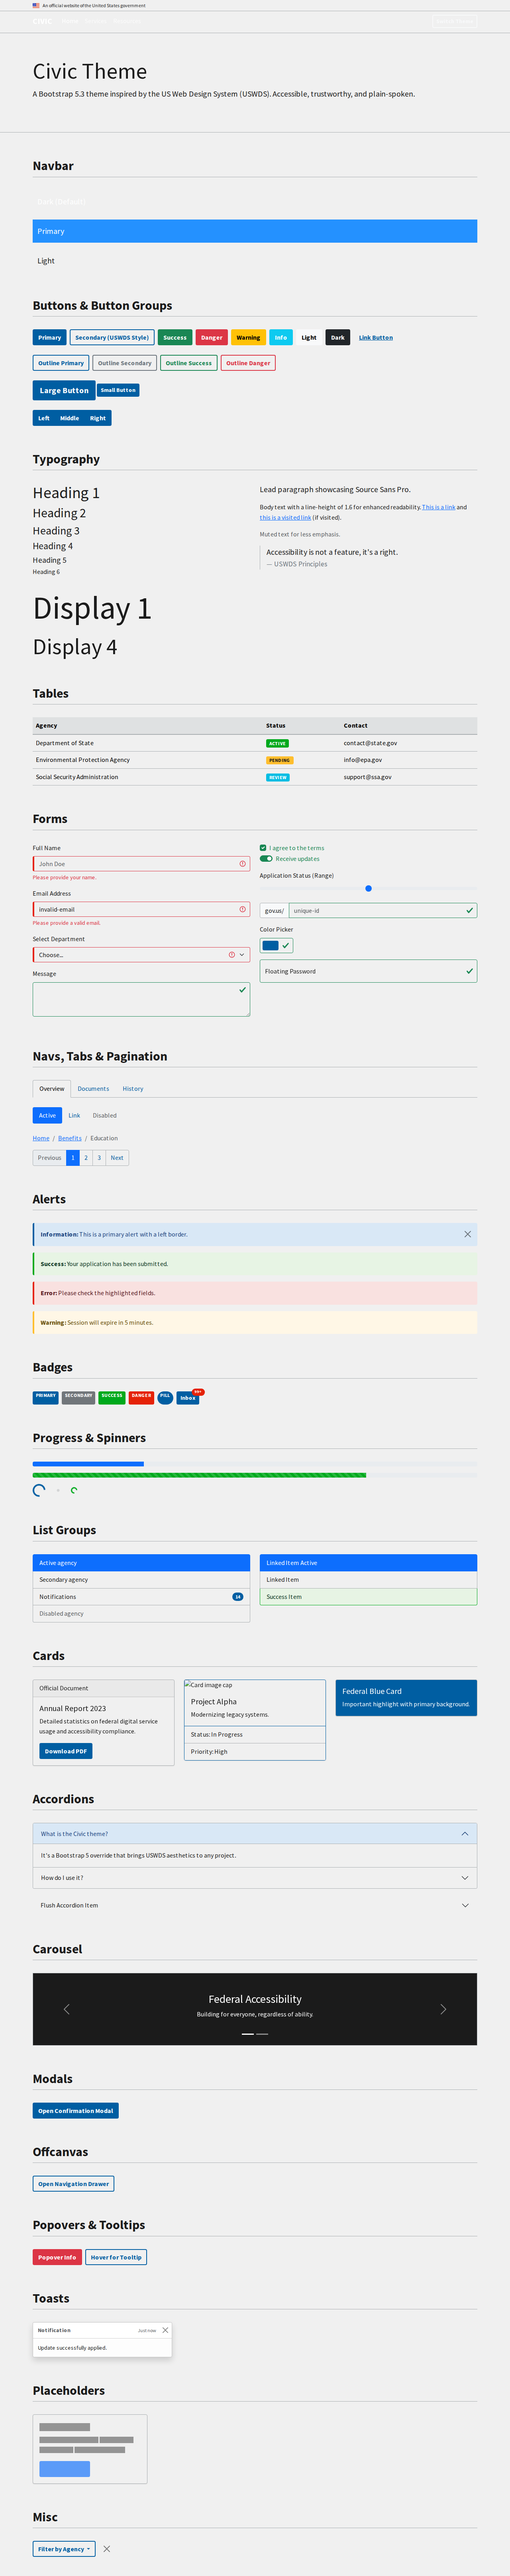
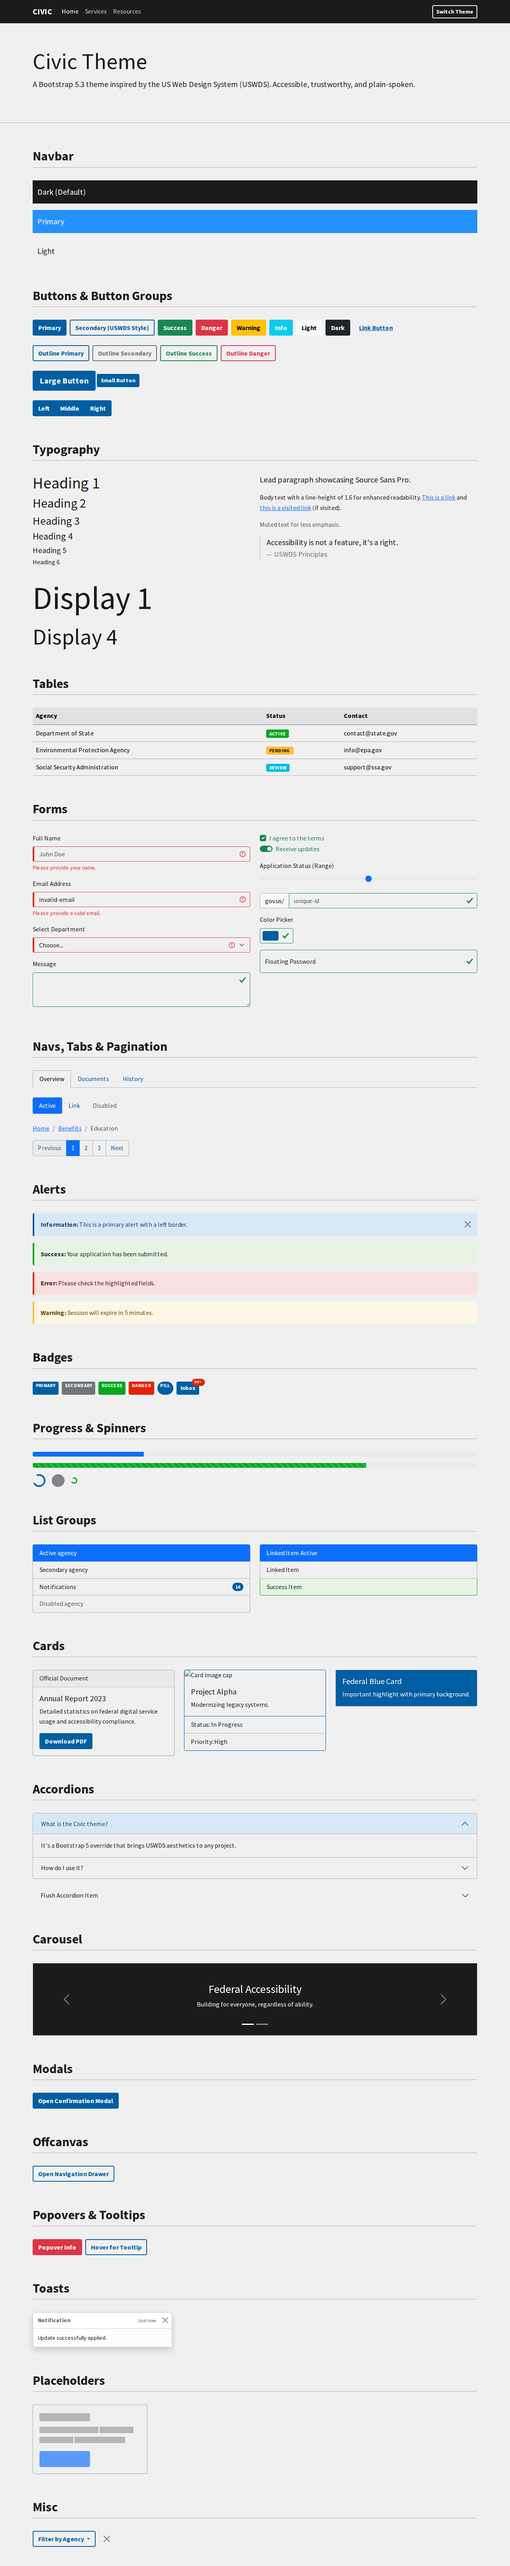
Fix Civic theme preview, navbar readability, and update README/Gallery
- Removed misleading USWDS banner from Civic theme index.html.
- Fixed Civic navbar readability by explicitly applying background-color.
- Corrected installation examples in README (link tags instead of script tags, removed /dist path).
- Added Vanguard, Carbon, and Civic themes to the README Available Themes table.
- Added Carbon theme to the central gallery in docs/index.html.
- Regenerated Civic theme screenshot.

diff --git a/themes/civic/index.html b/themes/civic/index.html
@@ -13,25 +13,15 @@
     <link rel="preconnect" href="https://fonts.gstatic.com" crossorigin>
     <link href="https://fonts.googleapis.com/css2?family=Source+Sans+Pro:wght@400;700&display=swap" rel="stylesheet">
     <style>
-        body { padding-top: 80px; }
+        body { padding-top: 56px; }
         .section-title { margin-top: 4rem; margin-bottom: 2rem; border-bottom: 1px solid var(--bs-border-color); padding-bottom: 0.5rem; font-weight: 700; }
         .hero { padding: 4rem 0; background-color: var(--bs-secondary-bg-subtle); border-bottom: 1px solid var(--bs-border-color); }
     </style>
 </head>
 <body>
 
-    <!-- USWDS Banner -->
-    <div class="usa-banner fixed-top w-100">
-        <div class="container">
-            <div class="d-flex align-items-center">
-                <img src="https://designsystem.digital.gov/assets/img/us_flag_small.png" alt="US Flag" class="me-2" style="height: 12px;">
-                <span>An official website of the United States government</span>
-            </div>
-        </div>
-    </div>
-
     <!-- 1. Navbar -->
-    <nav class="navbar navbar-expand-lg fixed-top border-bottom mt-4">
+    <nav class="navbar navbar-expand-lg fixed-top border-bottom">
         <div class="container">
             <a class="navbar-brand" href="#">
                 <strong>CIVIC</strong>

diff --git a/docs/index.html b/docs/index.html
@@ -94,6 +94,18 @@
                 </div>
             </div>
 
+            <!-- Carbon Theme -->
+            <div class="col-md-6 col-lg-4">
+                <div class="card theme-card">
+                    <img src="../themes/carbon/screenshot.png" class="card-img-top theme-screenshot" alt="Carbon Theme Screenshot">
+                    <div class="card-body d-flex flex-column">
+                        <h5 class="card-title fw-bold">CARBON</h5>
+                        <p class="card-text flex-grow-1">Clinical, precise, enterprise-ready. Inspired by IBM's Carbon Design System, optimized for data-heavy applications.</p>
+                        <a href="https://html-preview.github.io/?url=https://github.com/lesichkovm/bootlegance/blob/main/themes/carbon/index.html" class="btn btn-preview mt-3">Live Preview</a>
+                    </div>
+                </div>
+            </div>
+
             <!-- More themes can be added here -->
         </div>
 

diff --git a/themes/civic/theme.css b/themes/civic/theme.css
@@ -162,6 +162,7 @@ div.is-invalid {
 
 /* Navbar */
 .navbar {
+  background-color: var(--bs-navbar-bg);
   --bs-navbar-bg: var(--bs-dark);
   --bs-navbar-color: rgba(255, 255, 255, 0.75);
   --bs-navbar-hover-color: var(--usa-white);

diff --git a/README.md b/README.md
@@ -24,11 +24,11 @@ Bootlegance is a collection of carefully crafted Bootstrap 5 themes designed to 
 
 ```html
 <link href="https://cdn.jsdelivr.net/npm/bootstrap@5.3.0/dist/css/bootstrap.min.css" rel="stylesheet">
-<!-- Load latest WebJS from CDN -->
-<script src="https://cdn.jsdelivr.net/gh/lesichkovm/bootlegance@latest/dist/themes/{theme-name}/theme.css"></script>
+<!-- Load latest theme CSS from CDN -->
+<link href="https://cdn.jsdelivr.net/gh/lesichkovm/bootlegance@latest/themes/{theme-name}/theme.css" rel="stylesheet">
 
-<!-- Load specific version of WebJS from CDN -->
-<script src="https://cdn.jsdelivr.net/gh/lesichkovm/bootlegance@v2.9.0/dist/themes/{theme-name}/theme.css"></script>
+<!-- Load specific version of theme CSS from CDN -->
+<link href="https://cdn.jsdelivr.net/gh/lesichkovm/bootlegance@v2.9.0/themes/{theme-name}/theme.css" rel="stylesheet">
 ```
 
 3. That's it! Your Bootstrap components now have the Bootlegance theme applied.
@@ -54,6 +54,9 @@ document.documentElement.setAttribute('data-bs-theme', 'dark');
 | Theme | Description | Preview | Best For |
 |---|---|---|---|
 | **Brutalski** | Bold, raw, geometric brutalism | [Preview](https://html-preview.github.io/?url=https://github.com/lesichkovm/bootlegance/blob/main/themes/brutalski/index.html) | Developers, tech-forward projects, design portfolios |
+| **Vanguard** | Faithfully recreated Bootstrap 3 aesthetic | [Preview](https://html-preview.github.io/?url=https://github.com/lesichkovm/bootlegance/blob/main/themes/vanguard/index.html) | Legacy projects, nostalgia, familiarity |
+| **Carbon** | Clinical, precise, enterprise-ready | [Preview](https://html-preview.github.io/?url=https://github.com/lesichkovm/bootlegance/blob/main/themes/carbon/index.html) | Enterprise apps, dashboards, developer tools |
+| **Civic** | Inspired by the U.S. Web Design System (USWDS) | [Preview](https://html-preview.github.io/?url=https://github.com/lesichkovm/bootlegance/blob/main/themes/civic/index.html) | Government, digital services, accessibility-first |
 | **Midnight** | Dark, sophisticated, professional | Corporate apps, SaaS, modern tech |
 | **Sunrise** | Warm, energetic, light | Creative portfolios, startups, inviting projects |
 | **Ocean** | Cool, calm, trustworthy | Finance, corporate, professional services |
